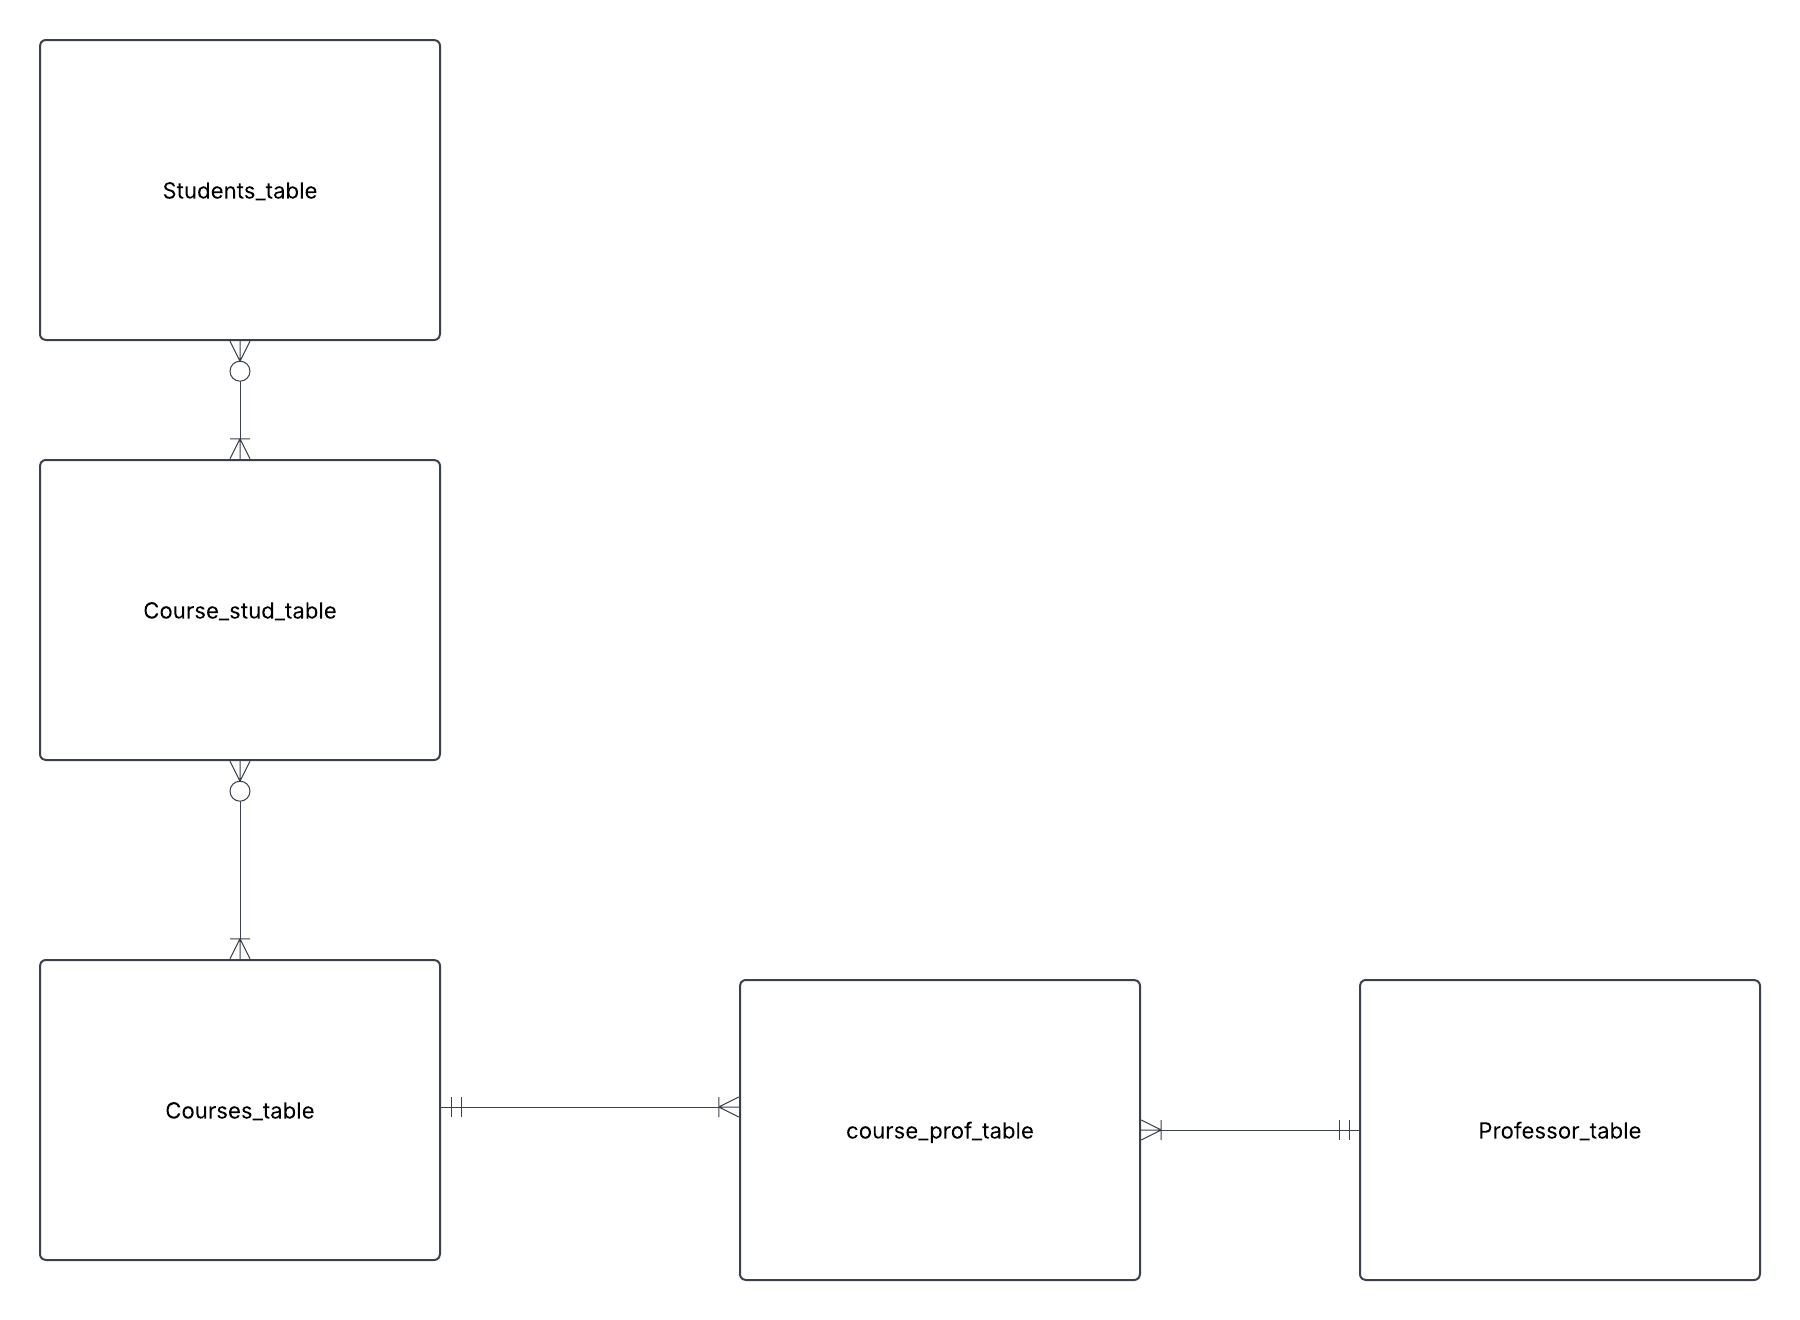
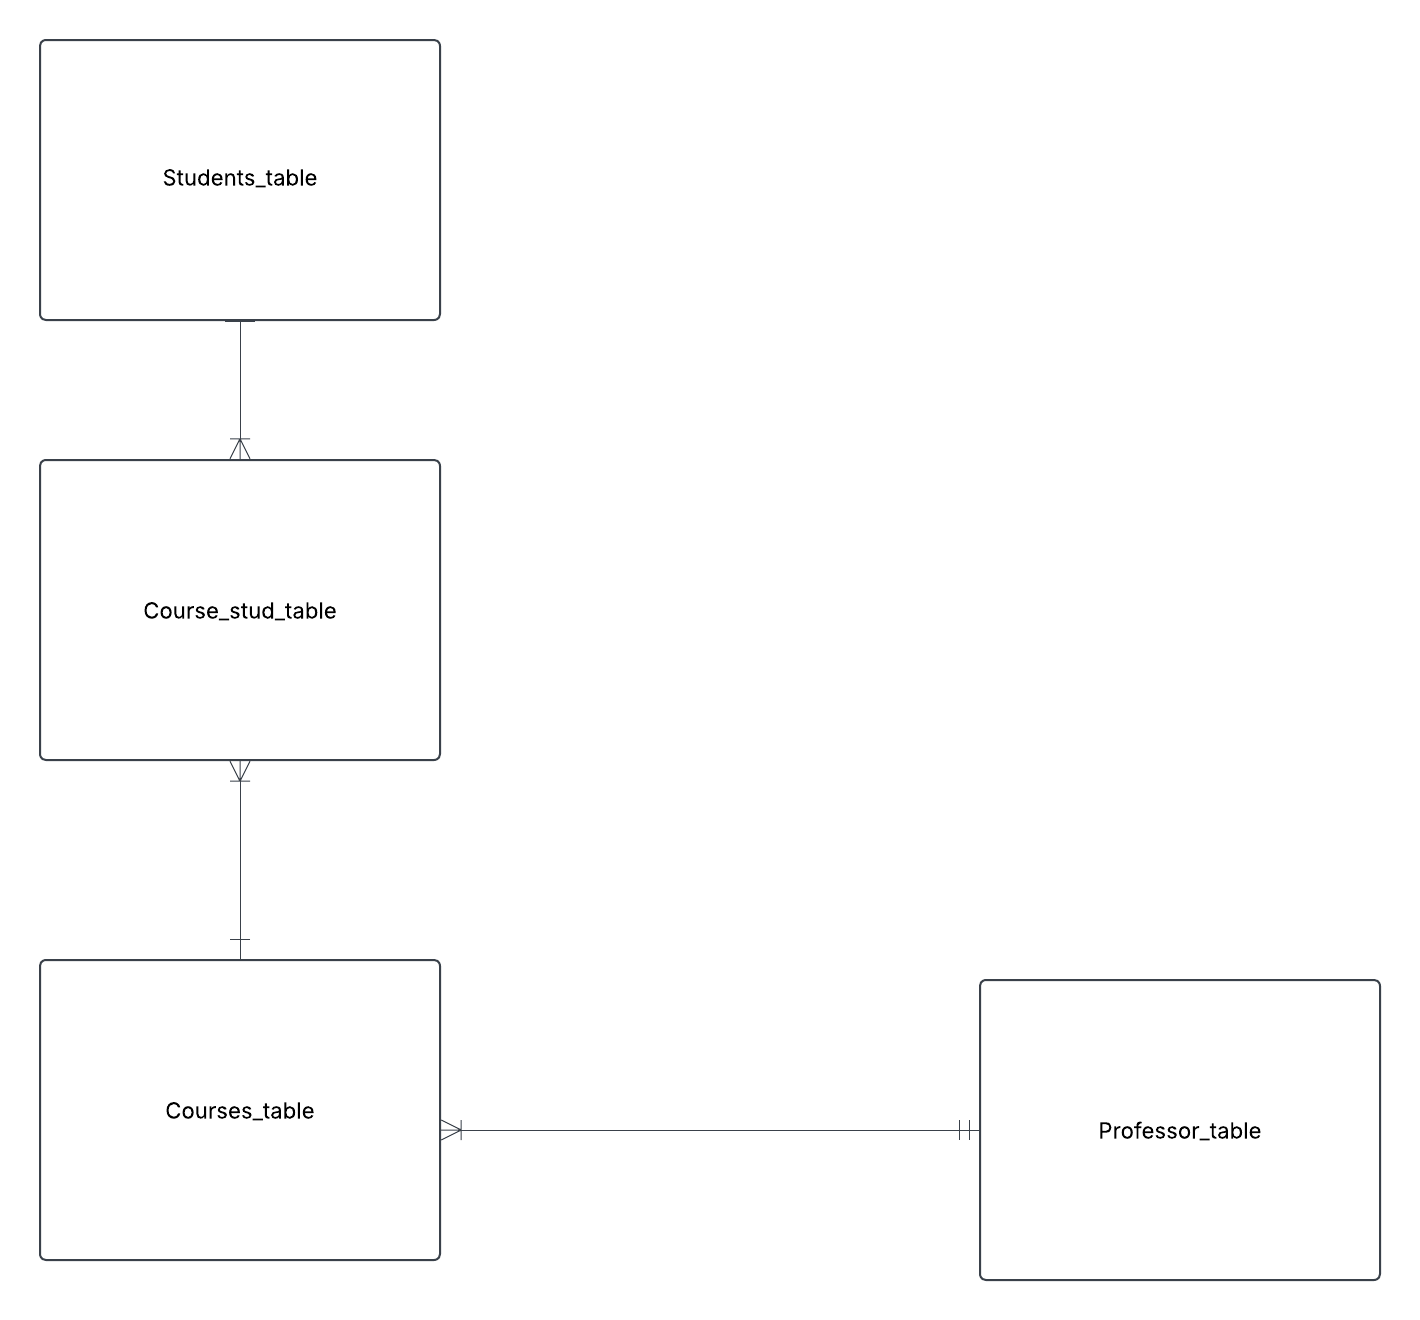
exercise 0, 2025-03-07

diff --git a/exercises/exercise_0md.md b/exercises/exercise_0md.md
@@ -177,8 +177,10 @@ book_table och member_table are entities, library tables is an associative entit
 
 Cardinality:
 
-1:M, One book can be borrowed multiple times but only by one member at a time
-1:M, One member can borrow multiple books but only one book at a time
+1:M, (memb <-> library) One book can be borrowed zero or multiple times but only by one borrowing at a time
+1:M, (book <-> library) One member can borrow multiple books but only one book at a time
+
+The ERD are runned from the left.
 
 <img SRC = " ../assets/picture3.png" width=300>
 
@@ -210,7 +212,9 @@ b) Write out the relationship labels.
 c) Describe the relationships between the entities (one-to-many, one-to-one and many-to-many).
 
 - Customer <-> Rental one-to-many 0..1:M
-- Rental <-> Car one-to-many 0..1:M
+- Rental <-> Customer many-to-one M:0..1
+- Rental <-> Car many-to-one M:0..1
+- Car <-> Rental one-to-many 0..1:M
 
 d) Define the relationship statement for example: "A Customer can have one or more Rentals".
 
@@ -280,7 +284,7 @@ A university needs a system to manage students, courses, and professors.
 
 a) Identify entities and their relationships
 
-Object enteties are students, courses and professors. Associte/bridging enteties are course_prof_table and course_stud_table
+Object enteties are students, courses and professors. Associte/bridging enteties are course_stud_table
 
 b) Come up with possible attributes for the entities
 
@@ -294,11 +298,11 @@ students_table
 
 courses_table
 
-| cour_id | name            |
-| ------- | --------------- |
-| 1       | Genus galenskap |
-| 2       | Haxxor skillZ   |
-| 3       | Memecoins       |
+| cour_id | name                 |prof_id
+| ------- | -------------------- |
+| 1       | grus och sten 7,5 hp |1
+| 2       | Haxxor skillZ        |2
+| 3       | Memecoins            |3
 
 professor_table
 
@@ -307,14 +311,6 @@ professor_table
 | 1       | Aristoteles        |
 | 2       | Anna Öhman         |
 | 3       | Professor Mcnogall |
-
-course_prof_table
-
-| cour_prof_id | cour_id | prof_id |
-| ------------ | ------- | ------- |
-|              |         |         |
-|              |         |         |
-|              |         |         |
 
 course_stud_table
 
@@ -326,18 +322,178 @@ course_stud_table
 
 c) Draw conceptual ERD with cardinalities
 
-- students_table -> course_stud_table 0:M
-- course_stud_table -> courses_table 0:M
-- courses_table -> course_prof_table 1:M
-- course_prof_table -> professsor_table M:1
+- students_table -> course_stud_table 1:M
+- course_stud_table -> courses_table M:1
+- courses_table -> prof_table M:1
 
 <img SRC = " ../assets/exc0que5.png" width=300>
 
 d) Define business rules (e.g. a student can enroll in max 4 courses)
-
 
 - 1. A student must be enrolled in at least 1 course to be active.
 - 2. A course can have between 0 and 40 students.
 - 3. Each course must have exactly one professor.
 - 4. A professor can teach up to 5 courses.
 
+## 6. Onshop
+
+An e-commerce platform Onshop manages customers, orders, and products.
+
+- a customer can place multiple orders.
+- each order contains multiple products.
+- a product can belong to multiple categories.
+
+a) Identify key entities and their attributes (e.g., customer_name, order_date)
+
+- Object entities are (atributes): category_table (category name), product_table(product, price usd, stock quantity), order_table (order date), category_table(category name), customer_table(name)
+
+- Associative entities are: prod_cat_table, order_items_table.
+
+category_table
+
+| category_id | category name |
+| ----------- | ------------- |
+| 1           | elektronik    |
+| 2           | fordon        |
+| 3           | djur          |
+
+product_table
+
+| prod_id | product name | price usd | stock quantity |
+| ------- | ------------ | --------- | -------------- |
+| 1       | usb          | 10        | 100            |
+| 2       | data mus     | 10        | 100            |
+| 3       | bil lampa    | 25        | 100            |
+| 4       | hund släde   | 250       | 20             |
+| 5       | katt         | 50        | 20             |
+
+prod_cat_table
+
+| prod_id | cat_id | prod_cat_id |
+| ------- | ------ | ----------- |
+| 1       | 1      | 1           |
+| 2       | 1      | 2           |
+| 2       | 3      | 3           |
+| 3       | 1      | 4           |
+| 3       | 2      | 5           |
+| 4       | 2      | 6           |
+| 4       | 3      | 7           |
+| 5       | 3      | 8           |
+
+customer_table
+
+| cust_id | name           |
+| ------- | -------------- |
+| 1       | Karl Karlsson  |
+| 2       | Virgina Hansen |
+| 3       | Luca Toni      |
+
+order_table
+
+| order_id | cust_id | order_date |
+| -------- | ------- | ---------- |
+| 1        | 1       | 2025-03-05 |
+| 2        | 2       | 2025-03-04 |
+| 3        | 3       | 2024-03-03 |
+
+order_items_table
+
+| order_item_id | order_id | prod_id |
+| ------------- | -------- | ------- |
+| 1             | 1        | 1       |
+| 2             | 1        | 2       |
+| 3             | 2        | 3       |
+| 4             | 3        | 2       |
+
+b) Sketch the conceptual ERD.
+
+<img SRC = " ../assets/exc0que6.png" width=300>
+
+c) Define business rules
+
+- Customers & Orders → Every order must be linked to a customer.
+- Orders & Products → A product cannot appear more than once in the same order.
+- Products & Categories → Every product must belong to at least one category.
+- Inventory & Pricing → Stock quantity cannot be negative.
+- Data Integrity → Foreign keys must be enforced to maintain data consistency.
+
+## 7. Theoretical questions
+
+a) What is a conceptual data model, and why is it important?
+
+Beacuse a CDM gives the sketching or drawing of how to organize a data pipeline, structure of consumer model for a company etc.
+
+GPT:
+
+"A Conceptual Data Model (CDM) provides a high-level sketch or blueprint of how data is structured and organized within a system. It helps define entities, relationships, and business rules without focusing on technical implementation, making it useful for designing data pipelines, consumer models, and overall company data strategy."
+
+b) Storing age in a database, is that a good idea, why?
+
+No since it changes and requires updates. Its better to have an ID number and use datetime to update. 
+
+c) What are the three types of data structures, and how do they differ?
+
+
+- Linear → Sequential → Task scheduling (Queue), music playlists, undo/redo functionality. IRL: Excel
+- Hierarchical → Parent-child → File systems (Tree), organization charts, search engine rankings. IRL: Operative systems
+- Graph → Interconnected nodes → Social networks (Graph), GPS navigation, recommendation systems. IRL: Instagram
+
+
+d) Give examples of how each data structure is used in real-world applications
+
+See above
+
+e) What is cardinality in data modeling, and why is it important?
+
+Its the concept of giving an order structure of flow of data between diffrent entities. It´s important to map out to streamline the data efficent. 
+
+GPT: 
+
+Refined Version of Your Answer:
+"Cardinality in data modeling defines the number of relationships between different entities, such as one-to-one, one-to-many, or many-to-many. It is important because it helps design efficient database structures, ensuring data consistency and optimizing performance."
+
+f) What are the different steps of data modeling?
+
+Identify entities and their relationships, identify their attributes. Design an conceptual ERD. Implement this structure in a data system, e.g. dbeaver, then import data, after that sttreamline it with e.g. docker compose/postgres. 
+
+GPT:
+
+- Identify Entities & Relationships → Define key objects (e.g., Customers, Orders) and their connections.
+- Identify Attributes → Assign properties (e.g., customer_name, order_date) and define keys.
+- Design Conceptual Model → Create an ERD to visualize entities and relationships.
+- Develop Logical Model → Structure the schema with tables, relationships, and constraints.
+- Implement Physical Model → Create the database in PostgreSQL, MySQL, or DBeaver.
+- Load & Test Data → Insert sample data and validate queries.
+- Optimize & Maintain → Use indexing, normalization, and tools like Docker Compose for scalability.
+
+
+g) What factors influence the choice between using an RDBMS and NoSQL?
+
+GPT:
+
+Conclusion:
+Choose RDBMS for structured data, complex queries, and consistency.
+Choose NoSQL for high scalability, flexible schema, and handling large, diverse datasets.
+
+![alt text](image-1.png)
+
+## Glossary
+
+- RDBMS: Relational Database Management System.
+Relational Model: A database model that organizes data into tables with relationships.
+- Conceptual Model: A high-level model that gives an overview of a data structure and its relationships.
+- Logical Model: A detailed model that defines entities, attributes, relationships, and constraints without implementation details.
+- Physical Model: A model that defines how data is physically stored in a database system.
+- ERD: Entity-Relationship Diagram, a visual representation of data relationships.
+- Data Modeling: The process of designing a database, from conceptualization to implementation.
+- Data Integrity: Ensuring accuracy, consistency, and reliability of data in a database.
+- Data Consistency: Ensuring that data remains uniform and correct across all systems and transactions.
+Field: A single piece of data in a database table (e.g., "customer_name").
+- Attribute: A property or characteristic of an entity (e.g., name, price, order_date).
+- Data Type: Defines the type of data stored in a field (e.g., INT, VARCHAR, DATE).
+- Tuple: A row in a relational database table representing a single record.
+- Data Redundancy: Unnecessary duplication of data, which can lead to inconsistency.
+- Transaction: A sequence of database operations that must be executed as a single unit.
+- Cardinality: Defines the number of relationships between entities (one-to-one, one-to-many, many-to-many).
+- One-to-One: A relationship where one entity is related to only one other entity (e.g., a person and their passport).
+- One-to-Many: A relationship where one entity is related to multiple entities (e.g., one customer placing multiple orders).
